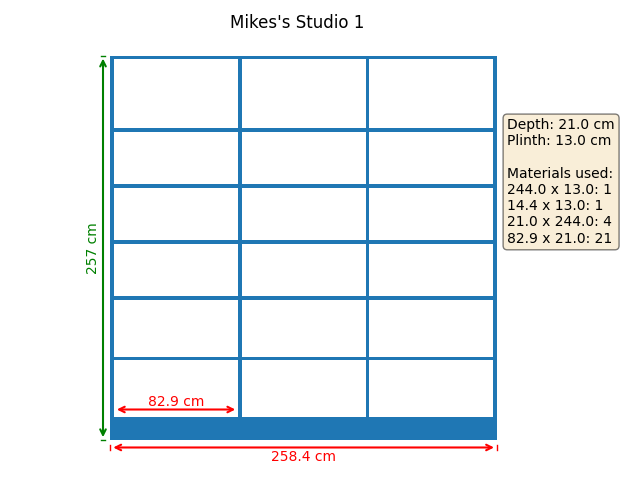
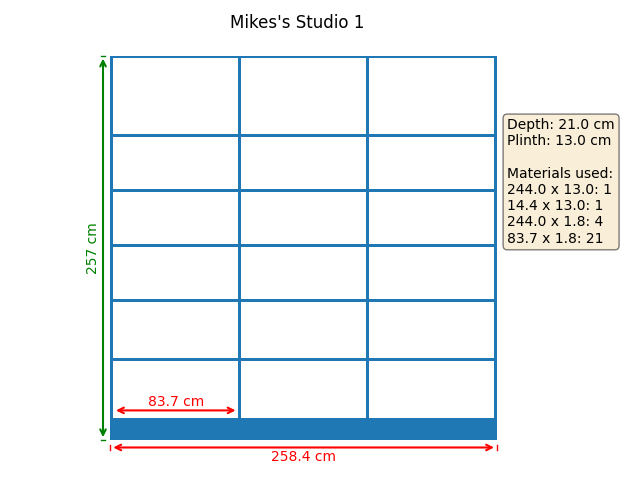
Adjust from 24mm to 18mm Ply thickness.

diff --git a/shelf.py b/shelf.py
@@ -1,17 +1,26 @@
 import matplotlib.pyplot as plt
 from matplotlib.patches import Rectangle
-
 #
 # shelving/shelf.py
 #     A simple program to draw a bookcase with measurements.
 # 
 # Author: Mike Smith
 # Date: 31-05-2025  
+# 
+# Modification History:
+#   M.R. Smith - 31-05-2025 - Initial version.
+#   M.R. Smith - 02-06-2025 - Modified thickness from 24mm to 18mm and adjusted shelf heights.
 #
+
+# Variables and defaults.
 x_pad = 10
 y_pad = 10
 tick_size = 3
 materials = {}
+
+# Defaults.
+thickness = 1.8  # Thickness of the edges and uprights
+plinth = 13  # Height of the plinth
 
 
 def draw_width(ax, width):
@@ -100,7 +109,10 @@ def draw_rectangle(ax, x, y, width, height, depth, fill=True):
         add_to_materials(244, height)
         add_to_materials(remainder, height)
     else:
-        add_to_materials(width, height)
+        if height > width:
+            add_to_materials(height, width)
+        else:
+            add_to_materials(width, height)
 
 
 def add_to_materials(width, height):
@@ -219,19 +231,21 @@ def draw_bookcase(width, height, depth, edge_wd, shelf_heights, lside_wd, rside_
     fig.savefig(f'{img_file}.png', facecolor=fig.get_facecolor(), edgecolor='none')
 
 
-draw_bookcase(width=86.8, height=244+12.5, depth=30, shelf_heights=[40, 40, 35, 35, 35],
-              edge_wd=2.4, lside_wd=2.4, rside_wd=0, uprt_wd=2.4, plin_ht=12.5, top_ht=0, divides=1, 
+draw_bookcase(width=86.8, height=244+plinth, depth=30, shelf_heights=[40, 40, 35, 35, 35],
+              edge_wd=thickness, lside_wd=thickness, rside_wd=0, uprt_wd=thickness, plin_ht=plinth, top_ht=0, divides=1, 
               title="Laundry ", fill=True, img_file='laundry')
 
-draw_bookcase(width=259, height=244+12, depth=30, shelf_heights=[40, 40, 35, 35, 35],
-              edge_wd=2.4, lside_wd=0, rside_wd=0, uprt_wd=2.4, plin_ht=12, top_ht=0, divides=3, 
+draw_bookcase(width=259.4, height=244+plinth, depth=30, shelf_heights=[40, 40, 35, 35, 35],
+              edge_wd=thickness, lside_wd=0, rside_wd=0, uprt_wd=thickness, plin_ht=plinth, top_ht=0, divides=3, 
               title="Kim's Study", fill=True, img_file='kim_study')
 
-draw_bookcase(width=258.4, height=244+13, depth=21, shelf_heights=[38, 38, 35, 35, 35],
-              edge_wd=2.4, lside_wd=2.4, rside_wd=2.4, uprt_wd=2.4, plin_ht=13, top_ht=2.4, divides=3, 
+draw_bookcase(width=258.4, height=244+plinth, depth=21, shelf_heights=[38, 38, 35, 35, 35],
+              edge_wd=thickness, lside_wd=thickness, rside_wd=thickness, uprt_wd=thickness, plin_ht=plinth, top_ht=thickness, divides=3, 
               title="Mikes's Studio 1", fill=True, img_file='mikes_studio1')
 
-draw_bookcase(width=244.3, height=244+17, depth=42, shelf_heights=[34, 34, 34, 60.2, 27, 38],
-              edge_wd=2.4, lside_wd=2.4, rside_wd=2.4, uprt_wd=2.4, plin_ht=17, top_ht=2.4, divides=5, 
+plinth = 17  # Height of the plinth
+draw_bookcase(width=244.3, height=244+plinth, depth=42, shelf_heights=[34, 34, 34, 59.2, 34],
+              edge_wd=thickness, lside_wd=thickness, rside_wd=thickness, uprt_wd=thickness, plin_ht=plinth, top_ht=thickness, divides=5, 
               title="Mikes's Studio 2", fill=True, img_file='mikes_studio2')
+
 
